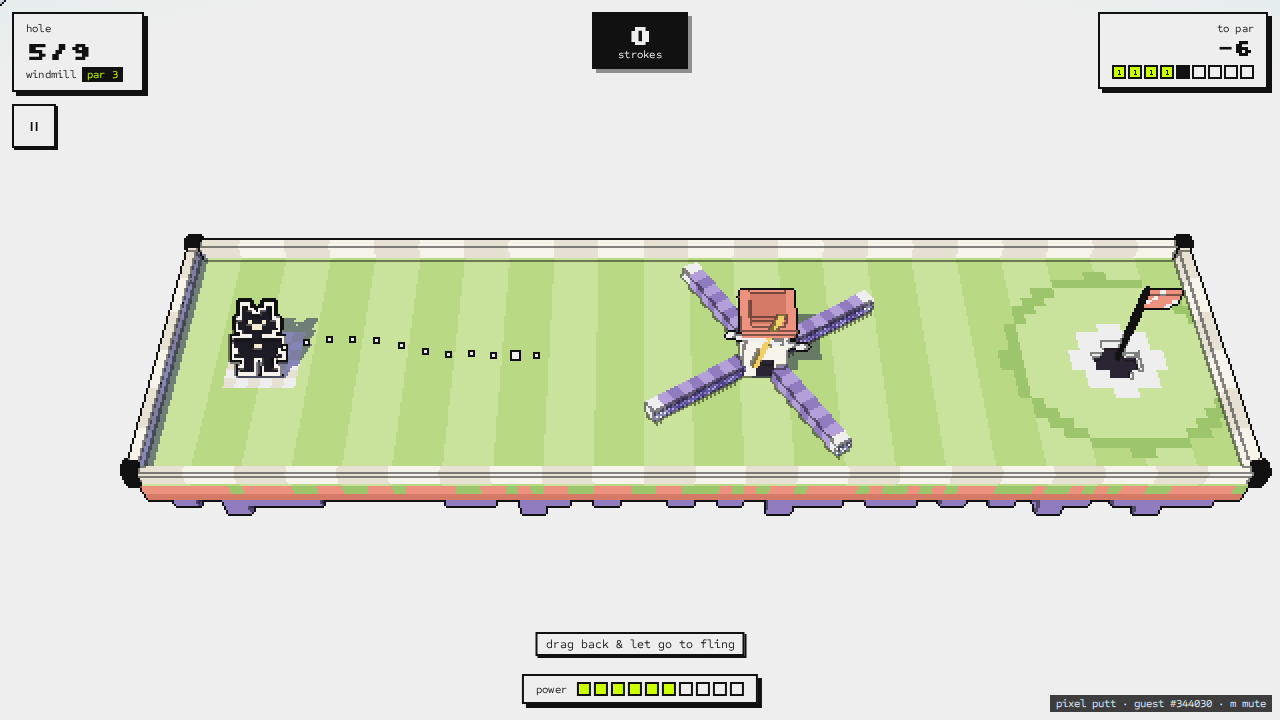
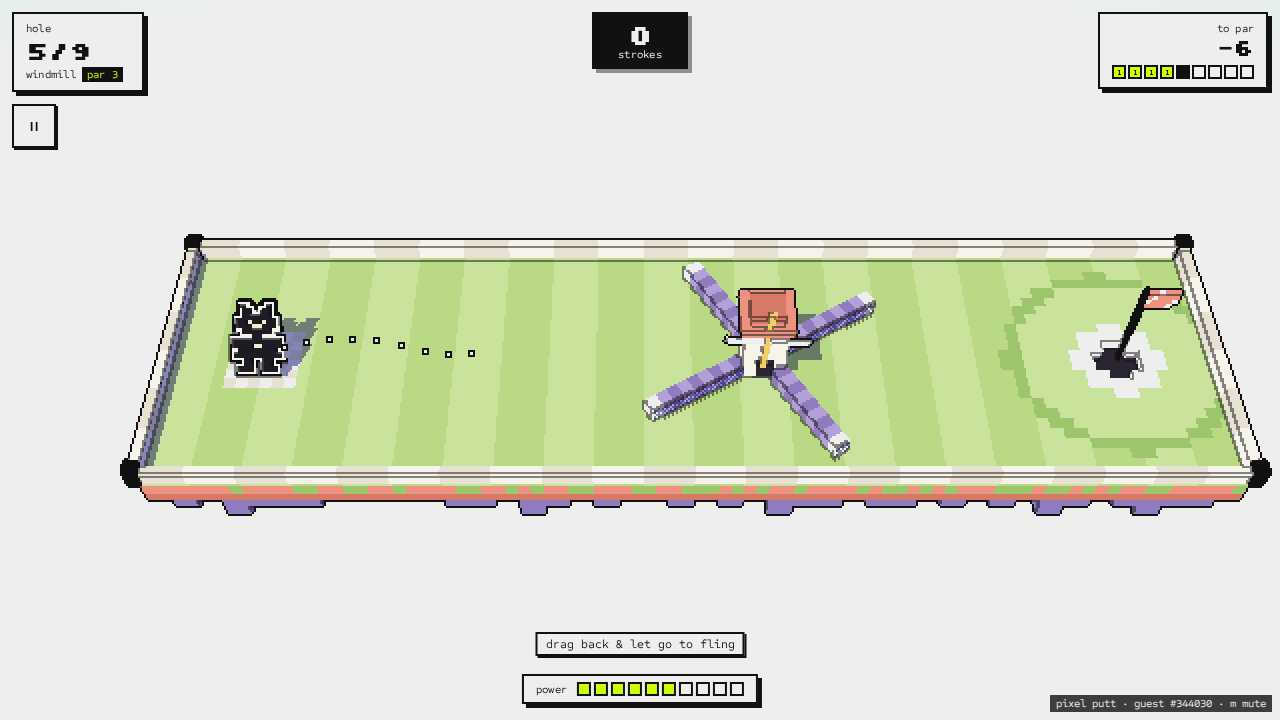
Show a showcase hole behind the Pixel Putt start card; refresh captures
The in-round HUD cards stay hidden until a round begins, and the idle
Friend stands up on the showcase tee instead of floating over empty sky.

diff --git a/apps/game/src/venues/pixel-putt/venue.ts b/apps/game/src/venues/pixel-putt/venue.ts
@@ -205,8 +205,10 @@ async function mountVenue(host: VenueHost<GameStage>, opts: PixelPuttOptions): P
   const hole = (): PixelPutt.PuttHole | null => (sim && cur ? (sim.course.holes[cur.hole] ?? null) : null);
 
   // ── Camera: frame the whole hole; portrait screens turn the course so it runs up the screen ─────────────────────
+  /** The hole shown behind the start card (a windmill, fixed knobs) until a round begins. */
+  let showcase: PixelPutt.PuttHole | null = null;
   const frameHole = (snap: boolean): void => {
-    const h = hole();
+    const h = hole() ?? showcase;
     if (!h) return;
     const w = canvas.clientWidth || 1;
     const hgt = canvas.clientHeight || 1;
@@ -517,6 +519,8 @@ async function mountVenue(host: VenueHost<GameStage>, opts: PixelPuttOptions): P
     paused = false;
     resumeAt = 0;
     state = "play";
+    showcase = null;
+    hud.setPlaying(true);
     for (const e of sim.drainEvents()) onEvent(e);
     audio.cue("run.start");
     audio.music?.play("run", seed);
@@ -616,6 +620,24 @@ async function mountVenue(host: VenueHost<GameStage>, opts: PixelPuttOptions): P
 
   const showStart = (): void => {
     state = "start";
+    hud.setPlaying(false);
+    showcase = PixelPutt.buildHole(PixelPutt.templateSpec(4, [0.5, 0.3, 0.5, 0.5]), 1);
+    scene.setHole(showcase);
+    const idle: PixelPutt.PuttView = {
+      tick: 0,
+      hole: 0,
+      holeTick: 0,
+      phase: "play",
+      ball: { x: showcase.tee.x, z: showcase.tee.z, y: 0, vx: 0, vz: 0, mode: "rest" },
+      ready: false,
+      strokes: 0,
+      card: [],
+      total: 0,
+      parSoFar: 0,
+    };
+    cur = idle;
+    prev = idle;
+    frameHole(true);
     const card = hud.openModal("pixel putt");
     const p1 = document.createElement("p");
     p1.textContent = PUTT_RULE;
@@ -668,7 +690,8 @@ async function mountVenue(host: VenueHost<GameStage>, opts: PixelPuttOptions): P
     pollInput(dt);
     const running = state === "play" || state === "ending";
     stage.timeScale = !running || paused || resumeAt > 0 || t < stopUntil ? 0 : 1;
-    const sdt = stage.timeScale > 0 ? dt : 0;
+    // Presentation time: frozen during hit-stop and pause, but the start-card showcase keeps idling.
+    const sdt = stage.timeScale > 0 || state === "start" ? dt : 0;
     if (!cur || !prev) {
       hud.frame(t);
       return;

diff --git a/apps/game/src/venues/pixel-putt/hud.ts b/apps/game/src/venues/pixel-putt/hud.ts
@@ -119,6 +119,7 @@ export class PuttHud {
   private countEl: HTMLElement | null = null;
   private lastStrip = "";
   private lastPower = -1;
+  private readonly cards: HTMLElement[];
 
   constructor(
     parent: HTMLElement,
@@ -171,8 +172,14 @@ export class PuttHud {
     this.live = el("div");
     this.live.setAttribute("aria-live", "polite");
     this.live.style.cssText = "position:absolute;width:1px;height:1px;overflow:hidden;clip:rect(0 0 0 0)";
+    this.cards = [hole, strokes, score, this.pauseBtn];
     this.root.append(this.layer, hole, strokes, score, this.pauseBtn, this.power, this.live);
     parent.append(this.root);
+  }
+
+  /** Shows the in-round cards (hole, strokes, scorecard, pause) only while a round is on. */
+  setPlaying(on: boolean): void {
+    for (const c of this.cards) c.style.visibility = on ? "" : "hidden";
   }
 
   /** Announces a line to assistive tech. */
